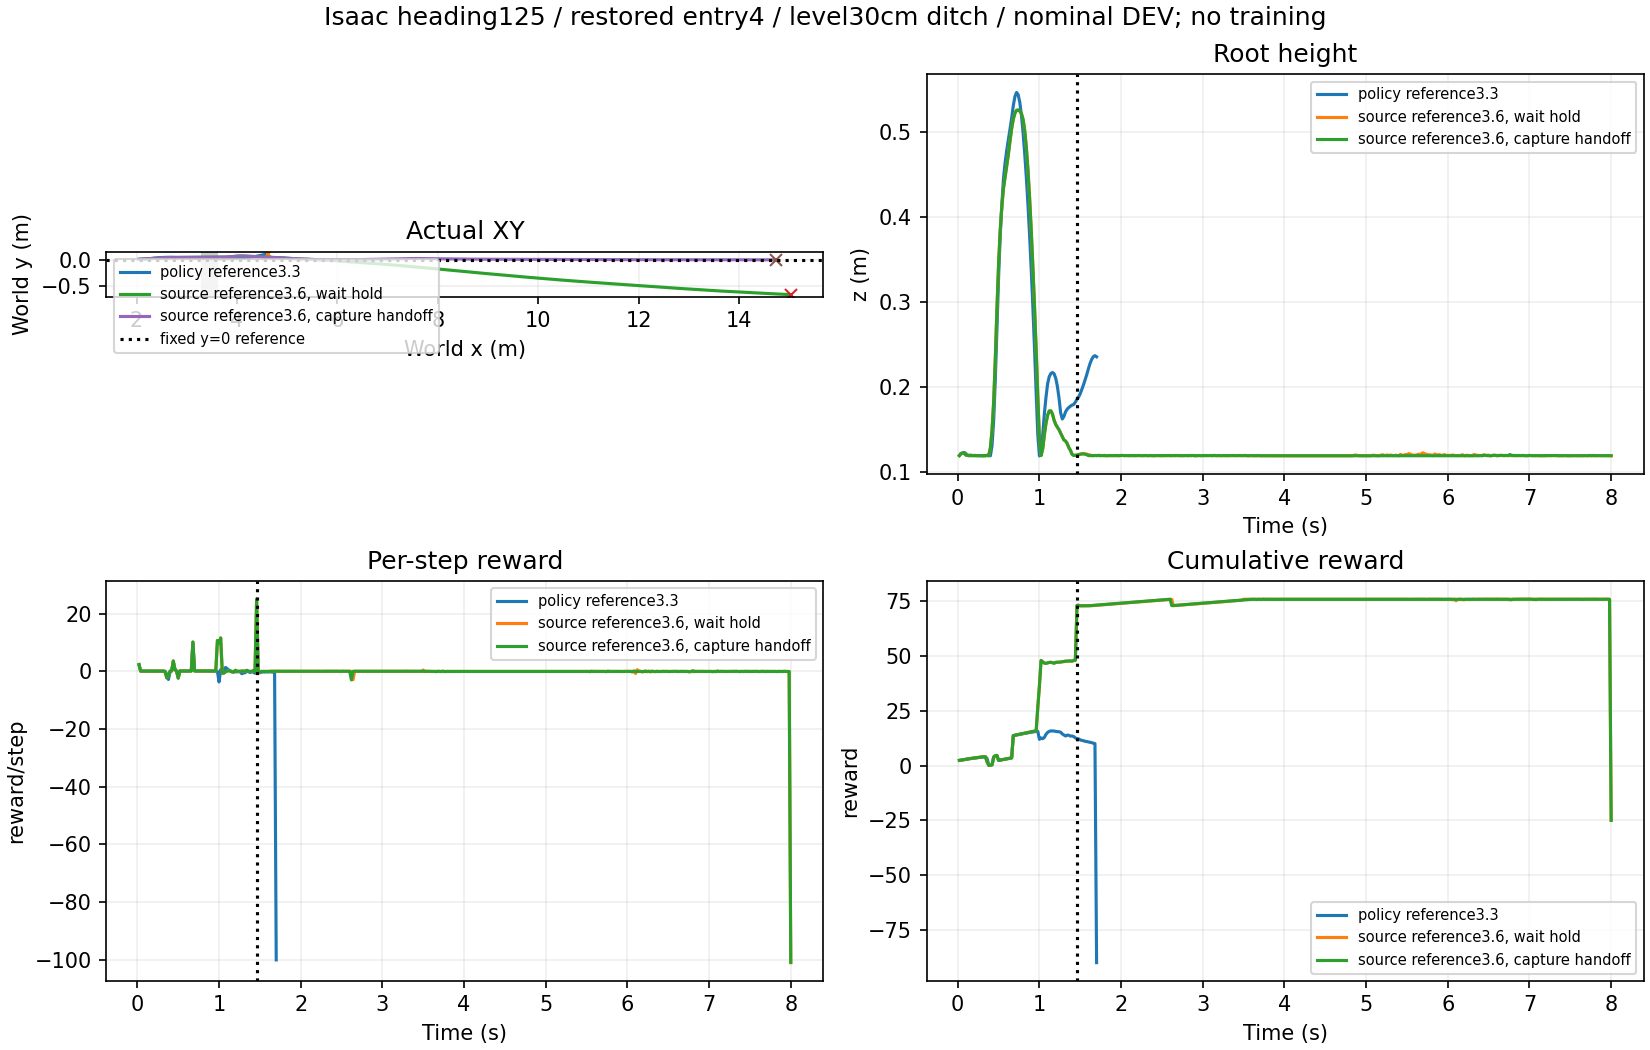
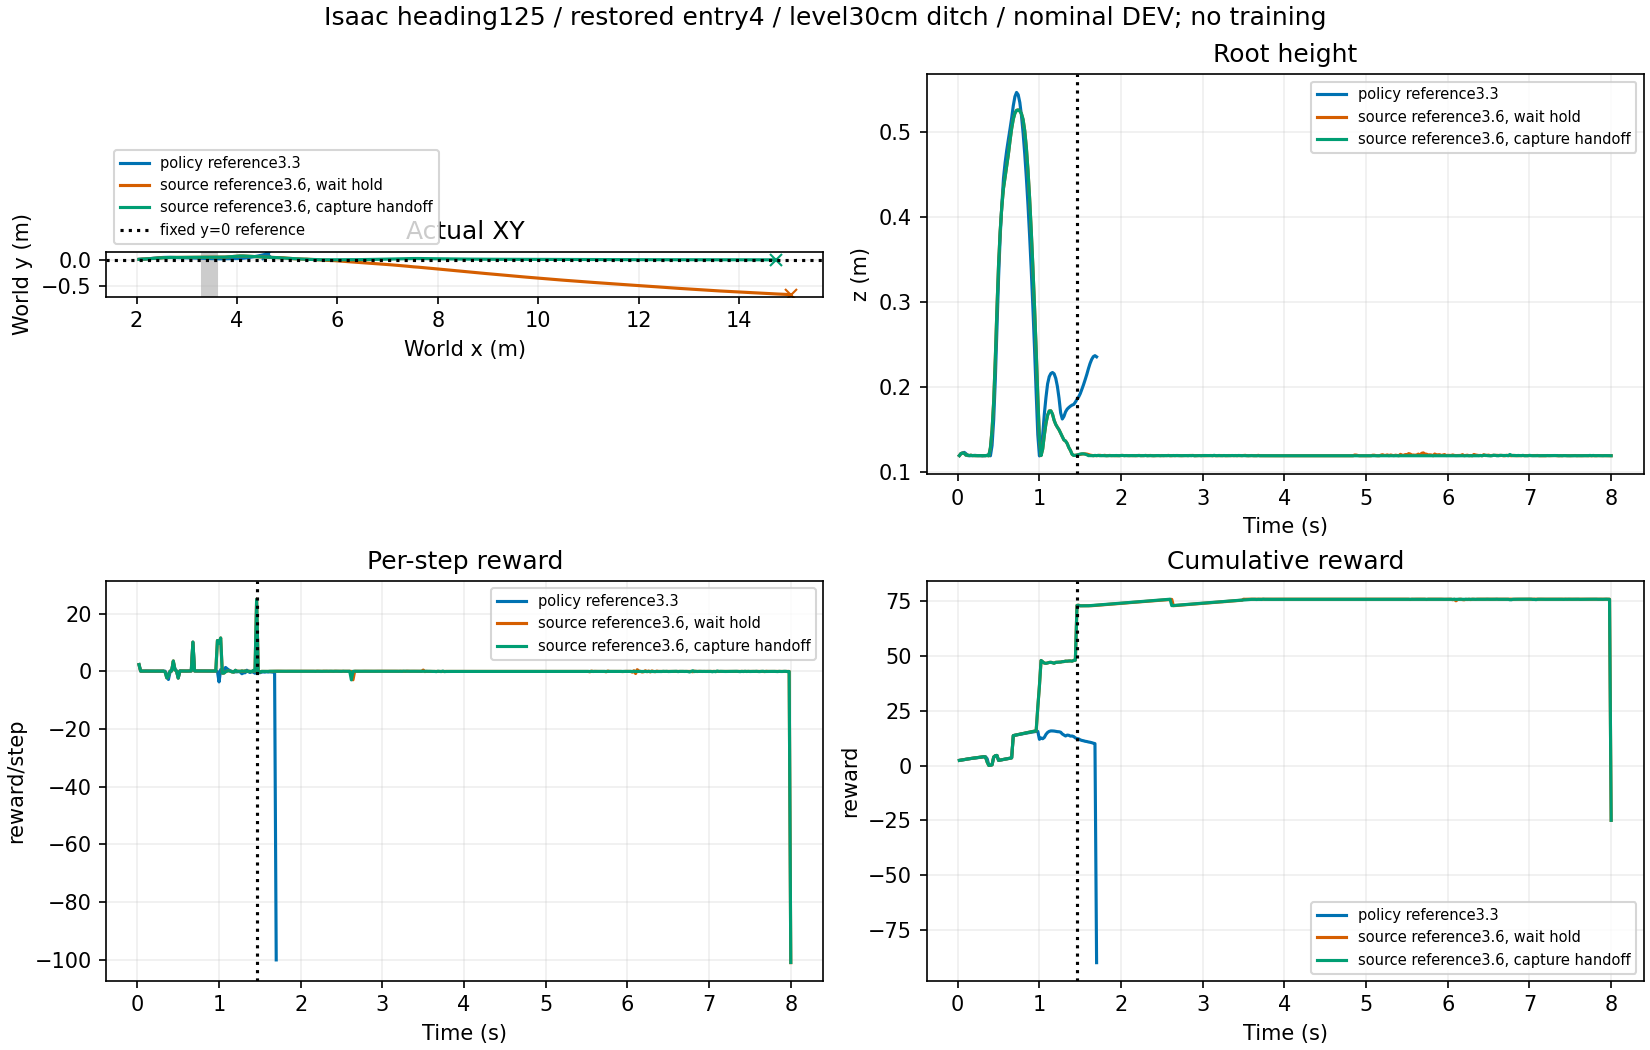
Keep replay curve colors consistent and XY trajectories unobscured

diff --git a/docs/evidence/chapter3_isaac_source_entry4/plot.py b/docs/evidence/chapter3_isaac_source_entry4/plot.py
@@ -5,13 +5,14 @@ matplotlib.use('Agg')
 import matplotlib.pyplot as plt
 b=Path('/media/qy/6A7E3DB07E3D75C3/STTW_runs/chapter3_isaac_source_entry4');o=Path(__file__).parent
 f,a=plt.subplots(2,2,figsize=(11,7),layout='constrained')
-for name,label in [('evaluation','policy reference3.3'),('source_reference','source reference3.6, wait hold'),('capture_handoff','source reference3.6, capture handoff')]:
+for (name,label),color in zip([('evaluation','policy reference3.3'),('source_reference','source reference3.6, wait hold'),('capture_handoff','source reference3.6, capture handoff')],['#0072B2','#D55E00','#009E73']):
  d=np.load(b/name/'heading125/trajectory.npz');r=d['root'][:,0];t=d['time'];rew=d['reward'][:,0]
- a[0,0].plot(r[:,0],r[:,1],label=label);a[0,0].plot(*r[-1,:2],'x')
- a[0,1].plot(t,r[:,2],label=label);a[1,0].plot(t,rew,label=label);a[1,1].plot(t,np.cumsum(rew),label=label)
+ a[0,0].plot(r[:,0],r[:,1],label=label,color=color);a[0,0].plot(*r[-1,:2],'x',color=color)
+ a[0,1].plot(t,r[:,2],label=label,color=color);a[1,0].plot(t,rew,label=label,color=color);a[1,1].plot(t,np.cumsum(rew),label=label,color=color)
 a[0,0].axhline(0,c='k',ls=':',label='fixed y=0 reference');a[0,0].axvspan(3.3,3.6,color='0.8');a[0,0].set(xlabel='World x (m)',ylabel='World y (m)',title='Actual XY');a[0,0].set_aspect('equal',adjustable='box')
 for ax,title,y in [(a[0,1],'Root height','z (m)'),(a[1,0],'Per-step reward','reward/step'),(a[1,1],'Cumulative reward','reward')]:
  ax.set(xlabel='Time (s)',ylabel=y,title=title);ax.axvline(1.46,c='k',ls=':')
 for ax in a.flat:ax.grid(alpha=.2);ax.legend(fontsize=7)
+a[0,0].legend(loc='lower left',bbox_to_anchor=(0,1.02),fontsize=7)
 f.suptitle('Isaac heading125 / restored entry4 / level30cm ditch / nominal DEV; no training')
 f.savefig(o/'xy_and_rewards.png',dpi=150)
